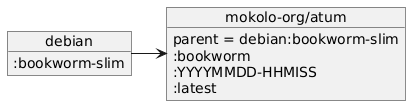
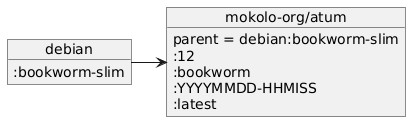
Use get-tags script from image to add tags to image. This method can be reused in derived images. The Makefile only sets :latest and the timestamp tag. The version-to-tags script can sanitize a version string so it can be used as a tag, and it can extract major and minor versions from the version.

diff --git a/README.md b/README.md
@@ -5,6 +5,8 @@ Base Docker image based on debian:bookworm:
 - Latest updates after building
 - With locales
 - Timezone Europe/Amsterdam
+- A script that converts a version string into valid tags
+  (major version '6', minor version '6.12' and full version '6.12.3-debug') 
 
 ## Name
 
@@ -17,26 +19,25 @@ In Wikipedia there's a lemma for [Atum](https://en.wikipedia.org/wiki/Atum)
 
 ## Build image
 
-```bash
-$ make build
-```
+Use command `make build` to build the image.\
 
 ## Build images in doc/
 
 - Download a recent MIT licensed version of PlantUML as a .jar file
   and store it in a directory.
-  I used ~/share/java/plantuml-mit-1.2024.7.jar for this
+  I used `~/share/java/plantuml-mit-1.2024.7.jar` for this
 - Make sure you have a Java JRE installed;
   in Debian install the 'default-jre-headless' package
   if you have not yet installed a JRE.
 - Make sure GraphViz is installed;
   Debian package 'graphviz'.
-- Create a bash script ~/.local/bin/plantuml as shown below
-- Make the script executable
-- In the doc-directory use make images to generate new images after a change
+- Create a bash script `~/.local/bin/plantuml` as shown below
 
 ```bash
 #! /bin/bash
 
 java -jar ~/share/java/plantuml-mit-1.2024.7.jar $*
 ```
+
+- Make the script executable
+- In the doc-directory use `make images` to generate new images after a change
